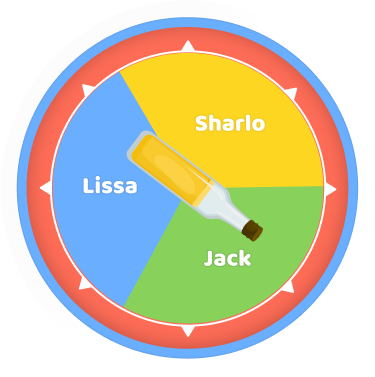
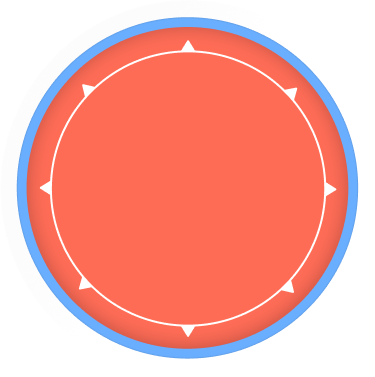
Spinner svg in game screen

diff --git a/src/Components/Spinners/Spinner/index.tsx b/src/Components/Spinners/Spinner/index.tsx
@@ -1,0 +1,68 @@
+import {SpinnerProps} from '@components/Spinners/Spinner/interface';
+import {styles} from '@components/Spinners/Spinner/styles';
+import Constants from '@constants/index';
+import {dimension} from '@utils/ScalingUtils';
+import React, {memo} from 'react';
+import {ImageBackground} from 'react-native';
+import Svg, {Text as SvgText, G, Path} from 'react-native-svg';
+
+const Spinner = memo(function Spinner(props: SpinnerProps) {
+  const {style, playersCount = 0, playersName = []} = props;
+
+  const radius = dimension.spinnerInnerCircleWidth / 2;
+  const cx = dimension.spinnerInnerCircleWidth / 2;
+  const cy = dimension.spinnerInnerCircleWidth / 2;
+
+  const anglePerPart = (2 * Math.PI) / playersCount;
+
+  const paths = [];
+  const textLabels = [];
+  for (let i = 0; i < playersCount; i++) {
+    const startAngle = i * anglePerPart;
+    const endAngle = (i + 1) * anglePerPart;
+
+    const x1 = cx + radius * Math.cos(startAngle);
+    const y1 = cy + radius * Math.sin(startAngle);
+    const x2 = cx + radius * Math.cos(endAngle);
+    const y2 = cy + radius * Math.sin(endAngle);
+
+    const path = `M${cx},${cy} L${x1},${y1} A${radius},${radius} 0 0,1 ${x2},${y2} Z`;
+    const color = Constants.SpinnerColors[i % Constants.SpinnerColors.length];
+
+    paths.push(<Path key={i} d={path} fill={color} />);
+
+    const textAngle = (startAngle + endAngle) / 2;
+    const textRadius = radius * 0.5;
+
+    const textX = cx + textRadius * Math.cos(textAngle);
+    const textY = cy + textRadius * Math.sin(textAngle);
+
+    textLabels.push(
+      <SvgText
+        key={i}
+        x={textX}
+        y={textY}
+        textAnchor="middle"
+        fontSize="18"
+        fontWeight="bold"
+        fill="white">
+        {playersName[i]}
+      </SvgText>,
+    );
+  }
+
+  return (
+    <ImageBackground
+      source={Constants.Images.Spinner}
+      style={[styles.container, style!]}>
+      <Svg
+        height={dimension.spinnerInnerCircleWidth}
+        width={dimension.spinnerInnerCircleWidth}>
+        {paths}
+        <G>{textLabels}</G>
+      </Svg>
+    </ImageBackground>
+  );
+});
+
+export {Spinner};

diff --git a/src/Screens/Main/Game/index.tsx b/src/Screens/Main/Game/index.tsx
@@ -6,6 +6,9 @@ import Constants from '@constants/index';
 import {ButtonIcon} from '@components/Buttons';
 import {RowView} from '@components/Flexs';
 
+//FIXME: Will be removed when store is added
+const players: string[] = ['Jackson', 'Scarlett', 'Liam'];
+
 const Game = memo(function Game(props) {
   return (
     <Components.Layouts.AppLayout
@@ -13,7 +16,10 @@ const Game = memo(function Game(props) {
       hasScrollView={false}
       contentContainerStyle={styles.contentContainer}>
       <Image source={Constants.Images.TruthDareGameLogo} style={styles.logo} />
-      <Image source={Constants.Images.Spinner} />
+      <Components.Spinners.Spinner
+        playersCount={players.length}
+        playersName={players}
+      />
       <RowView style={styles.footerContainer}>
         <ButtonIcon
           isValid

diff --git a/src/Utils/ScalingUtils.ts b/src/Utils/ScalingUtils.ts
@@ -42,6 +42,11 @@ export const dimension = {
   buttonCircleHeight: getScaleSizeWidth(68),
   buttonCircleWidth: getScaleSizeWidth(68),
 
+  spinnerWidth: getScaleSizeWidth(375),
+  spinnerHeight: getScaleSizeWidth(377),
+
+  spinnerInnerCircleWidth: getScaleSizeWidth(265),
+
   margin1: getScaleSizeWidth(1),
   margin2: getScaleSizeWidth(2),
   margin3: getScaleSizeWidth(3),

diff --git a/src/Components/Spinners/Spinner/styles.ts b/src/Components/Spinners/Spinner/styles.ts
@@ -1,0 +1,11 @@
+import {dimension} from '@utils/ScalingUtils';
+import {StyleSheet} from 'react-native';
+
+export const styles = StyleSheet.create({
+  container: {
+    height: dimension.spinnerHeight,
+    width: dimension.spinnerWidth,
+    justifyContent: 'center',
+    alignItems: 'center',
+  },
+});

diff --git a/src/App/App.tsx b/src/App/App.tsx
@@ -5,7 +5,7 @@ import {SafeAreaProvider} from 'react-native-safe-area-context';
 const App = () => {
   return (
     <SafeAreaProvider>
-      <Screens.MainScreens.Age />
+      <Screens.MainScreens.Game />
     </SafeAreaProvider>
   );
 };

diff --git a/src/Components/index.ts b/src/Components/index.ts
@@ -1,9 +1,11 @@
 import * as Layouts from './Layouts';
 import * as Buttons from './Buttons';
 import * as Flexs from './Flexs';
+import * as Spinners from './Spinners';
 
 export default {
   Layouts,
   Buttons,
   Flexs,
+  Spinners,
 };

diff --git a/src/Constants/index.ts b/src/Constants/index.ts
@@ -1,5 +1,7 @@
 import * as Images from './Images';
+import * as Colors from './Colors';
 
 export default {
   Images: Images.Images,
+  SpinnerColors: Colors.SpinnerColors,
 };

diff --git a/src/Components/Spinners/Spinner/interface.ts b/src/Components/Spinners/Spinner/interface.ts
@@ -1,0 +1,7 @@
+import {ImageStyle} from 'react-native';
+
+export interface SpinnerProps {
+  style?: ImageStyle;
+  playersCount?: number;
+  playersName?: string[];
+}

diff --git a/src/Constants/Colors/index.ts b/src/Constants/Colors/index.ts
@@ -1,0 +1,10 @@
+'use strict';
+
+export const SpinnerColors = [
+  '#C37235',
+  '#69AEFF',
+  '#88D25C',
+  '#FDD622',
+  '#FF66A3',
+  '#4D4D4D',
+];

diff --git a/src/Components/Spinners/index.ts b/src/Components/Spinners/index.ts
@@ -1,0 +1,1 @@
+export * from './Spinner';
